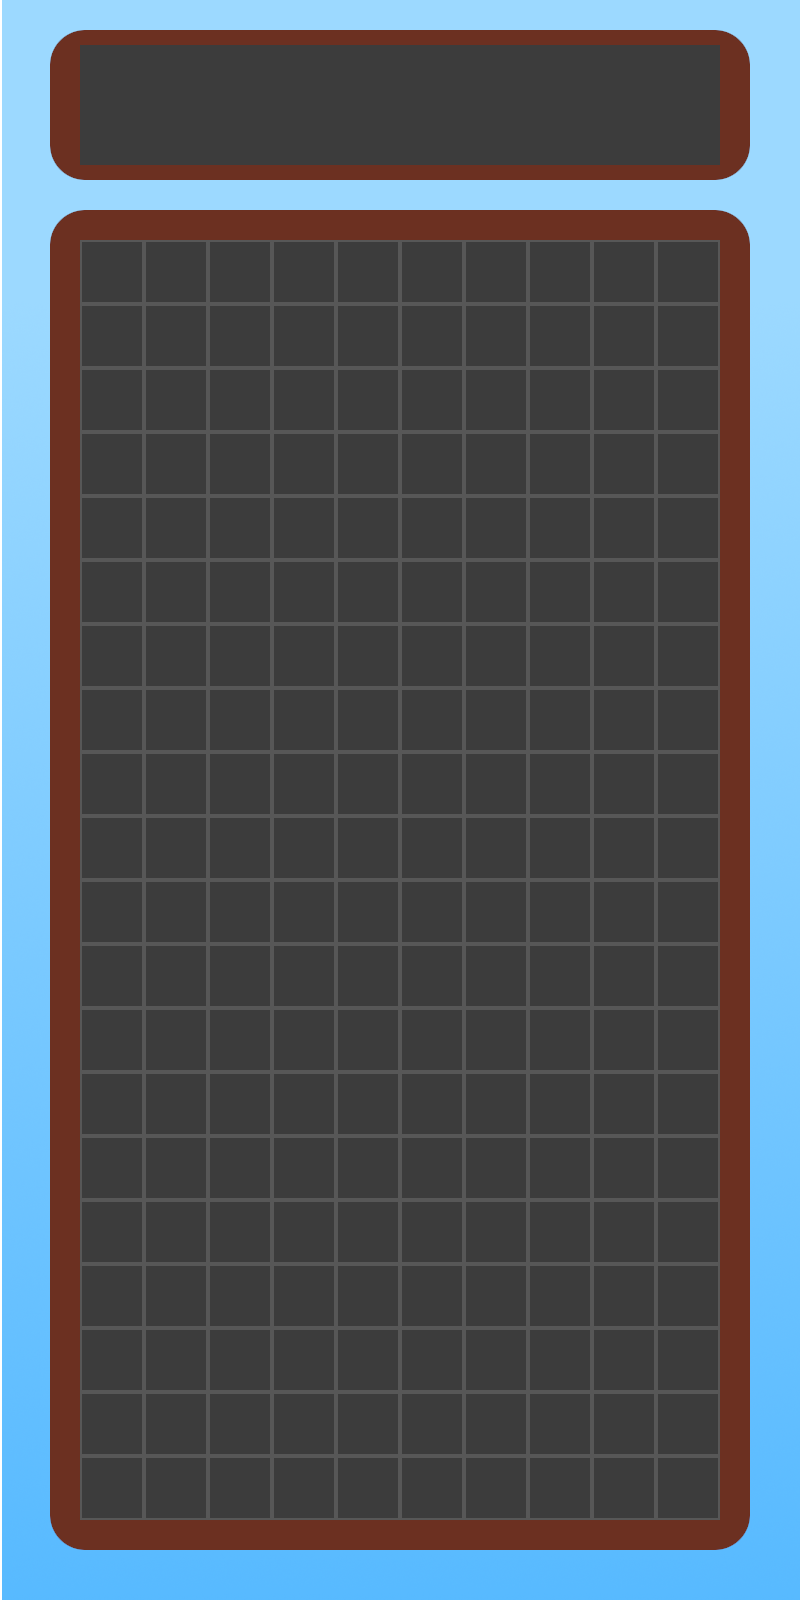
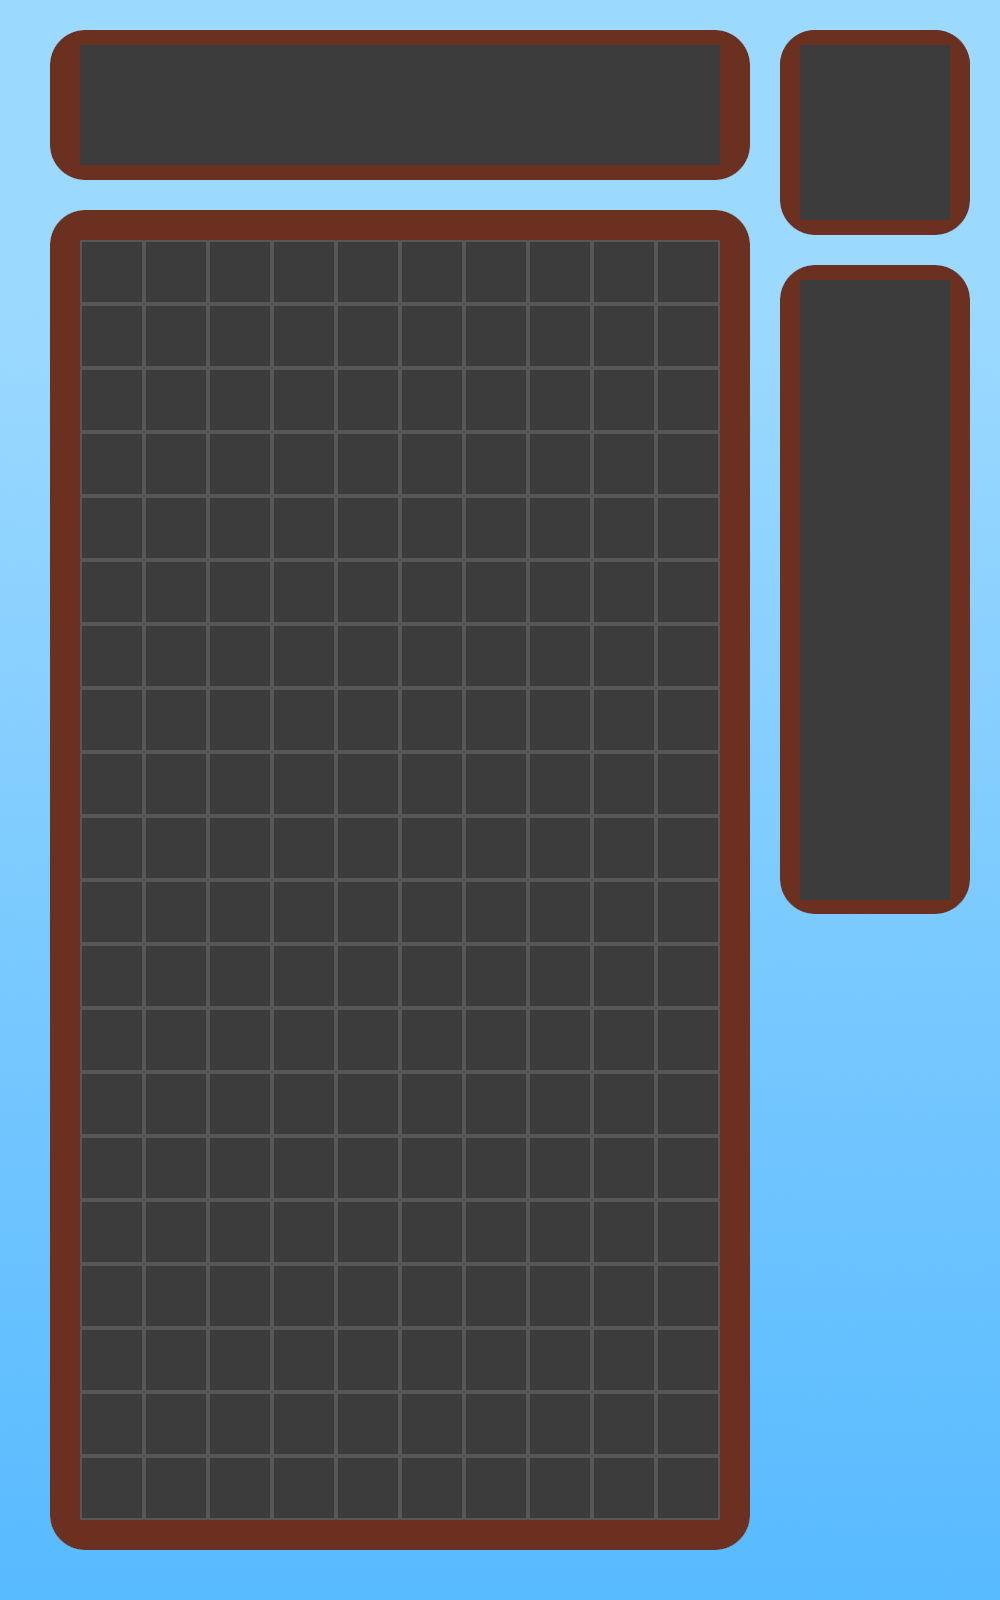
게임 화면 너비 확장

diff --git a/src/tetromino/tetromino-factory.js b/src/tetromino/tetromino-factory.js
@@ -12,14 +12,19 @@ export default class TetrominoFactory {
         this.board = board;
 
         this.tetrominoBluePrint = [
-            [TetrominoI, this.scene.add.group({ defaultKey: 'sky_unit', maxSize: 200 }), this.scene.add.image(650, 105, 'silhouette_i').setVisible(false)],
-            [TetrominoO, this.scene.add.group({ defaultKey: 'yellow_unit', maxSize: 200 }), this.scene.add.image(650, 105, 'silhouette_o').setVisible(false)],
-            [TetrominoT, this.scene.add.group({ defaultKey: 'purple_unit', maxSize: 200 }), this.scene.add.image(650, 105, 'silhouette_t').setVisible(false)],
-            [TetrominoJ, this.scene.add.group({ defaultKey: 'blue_unit', maxSize: 200 }), this.scene.add.image(650, 105, 'silhouette_j').setVisible(false)],
-            [TetrominoL, this.scene.add.group({ defaultKey: 'orange_unit', maxSize: 200 }), this.scene.add.image(650, 105, 'silhouette_l').setVisible(false)],
-            [TetrominoS, this.scene.add.group({ defaultKey: 'green_unit', maxSize: 200 }), this.scene.add.image(650, 105, 'silhouette_s').setVisible(false)],
-            [TetrominoZ, this.scene.add.group({ defaultKey: 'red_unit', maxSize: 200 }), this.scene.add.image(650, 105, 'silhouette_z').setVisible(false)],
+            [TetrominoI, this.scene.add.group({ defaultKey: 'sky_unit', maxSize: 200 }), this.scene.add.image(875, 160, 'silhouette_i').setVisible(false)],
+            [TetrominoO, this.scene.add.group({ defaultKey: 'yellow_unit', maxSize: 200 }), this.scene.add.image(875, 160, 'silhouette_o').setVisible(false)],
+            [TetrominoT, this.scene.add.group({ defaultKey: 'purple_unit', maxSize: 200 }), this.scene.add.image(875, 160, 'silhouette_t').setVisible(false)],
+            [TetrominoJ, this.scene.add.group({ defaultKey: 'blue_unit', maxSize: 200 }), this.scene.add.image(875, 160, 'silhouette_j').setVisible(false)],
+            [TetrominoL, this.scene.add.group({ defaultKey: 'orange_unit', maxSize: 200 }), this.scene.add.image(875, 160, 'silhouette_l').setVisible(false)],
+            [TetrominoS, this.scene.add.group({ defaultKey: 'green_unit', maxSize: 200 }), this.scene.add.image(875, 160, 'silhouette_s').setVisible(false)],
+            [TetrominoZ, this.scene.add.group({ defaultKey: 'red_unit', maxSize: 200 }), this.scene.add.image(875, 160, 'silhouette_z').setVisible(false)],
         ];
+
+        this.scene.add.image(875, 400, 'silhouette_i');
+        this.scene.add.image(875, 540, 'silhouette_i');
+        this.scene.add.image(875, 680, 'silhouette_i');
+        this.scene.add.image(875, 820, 'silhouette_i');
 
         this.randomIndex = Phaser.Math.Between(0, this.tetrominoBluePrint.length - 1);
     }

diff --git a/src/scene/game.js b/src/scene/game.js
@@ -44,7 +44,7 @@ export default class Game extends Phaser.Scene {
     create() {
         this.playing = true;
 
-        this.add.image(400, 800, 'game_background');
+        this.add.image(0, 0, 'game_background').setOrigin(0, 0);
 
         this.red_units = this.add.group({
             defaultKey: 'red_unit',
@@ -84,7 +84,8 @@ export default class Game extends Phaser.Scene {
             }
         });
 
-        this.add.text(520, 60, 'NE\nXT', { fontSize: 48 });
+        this.add.text(810, 50, 'NEXT', { fontSize: 48, fontFamily: 'Arial' });
+        this.add.text(810, 285, 'NEXT', { fontSize: 48, fontFamily: 'Arial' });
         this.nextSilhouette = this.tetrominoFactory.getNextSilhouette().setVisible(true);
     }
 
@@ -146,9 +147,9 @@ export default class Game extends Phaser.Scene {
 
         const graphics = this.add.graphics();
         graphics.fillStyle(0x000000, 0.8);
-        graphics.fillRect(0, 0, 800, 1600);
+        graphics.fillRect(0, 0, 1200, 1600);
         graphics.setBlendMode(Phaser.BlendModes.DARKEN);
 
-        this.add.image(400, 700, 'game_over');
+        this.add.image(500, 800, 'game_over');
     }
 }

diff --git a/src/logic/score-system.js b/src/logic/score-system.js
@@ -3,13 +3,13 @@ export default class ScoreSystem {
         this.score = 0;
         this.scene = scene;
 
-        this.scene.add.text(100, 55, 'Score', { fontSize: 48 });
-        this.sceneTextTotalScore = this.scene.add.text(245, 110, 0, { fontSize: 48, rtl: true });
+        this.scene.add.text(185, 55, 'Score', { fontSize: 48, fontFamily: 'Arial' });
+        this.sceneTextTotalScore = this.scene.add.text(310, 110, 0, { fontSize: 48, fontFamily: 'Arial', rtl: true });
 
         this.combo = 0;
 
-        this.scene.add.text(300, 55, 'Combo', { fontSize: 48 });
-        this.sceneTextComboCount = this.scene.add.text(445, 110, 0, { fontSize: 48, rtl: true });
+        this.scene.add.text(450, 55, 'Combo', { fontSize: 48, fontFamily: 'Arial' });
+        this.sceneTextComboCount = this.scene.add.text(605, 110, 0, { fontSize: 48, fontFamily: 'Arial', rtl: true });
     }
 
     addScore() {
@@ -26,7 +26,7 @@ export default class ScoreSystem {
         if (this.combo > 0) {
             this.combo--;
         }
-        
+
         this.sceneTextComboCount.setText(this.combo);
     }
 }

diff --git a/src/scene/main-menu.js b/src/scene/main-menu.js
@@ -10,8 +10,8 @@ export default class MainMenu extends Phaser.Scene {
     }
 
     create() {
-        this.add.image(400, 800, 'main_menu');
-        this.add.image(400, 700, 'start_button')
+        this.add.image(0, 0, 'main_menu').setOrigin(0, 0);
+        this.add.image(500, 800, 'start_button')
             .setInteractive().on('pointerdown', () => {
                 this.scene.start('game');
             });

diff --git a/src/app.js b/src/app.js
@@ -3,7 +3,7 @@ import MainMenu from "./scene/main-menu.js";
 
 const config = {
     type: Phaser.AUTO,
-    width: 800,
+    width: 1000,
     height: 1600,
     scene: [MainMenu, Game],
     scale: {
